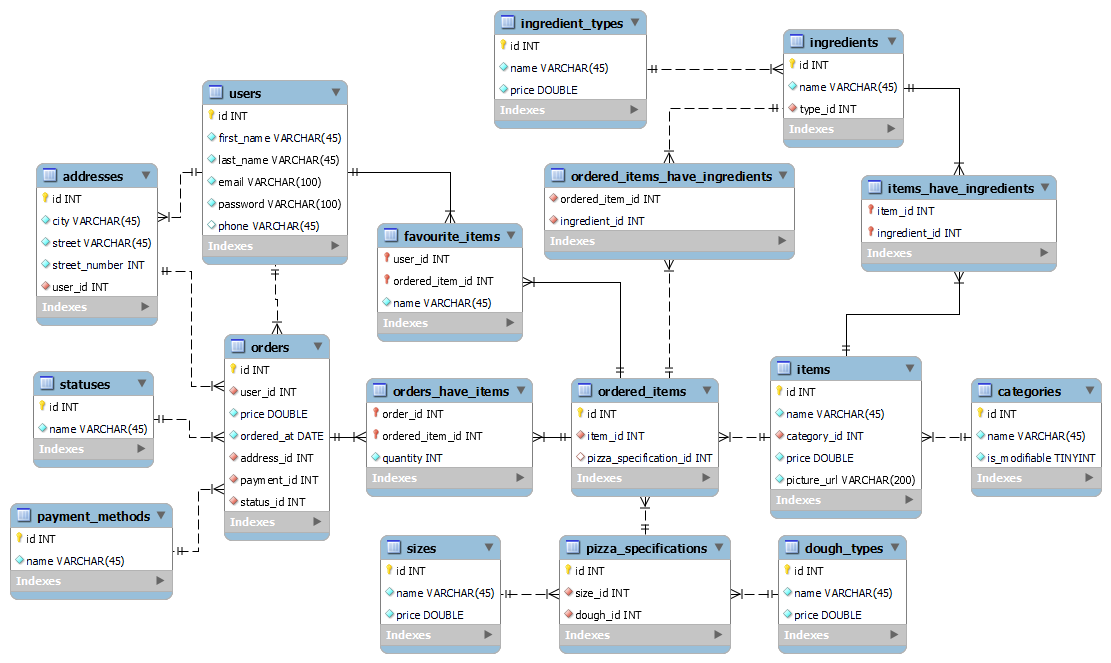
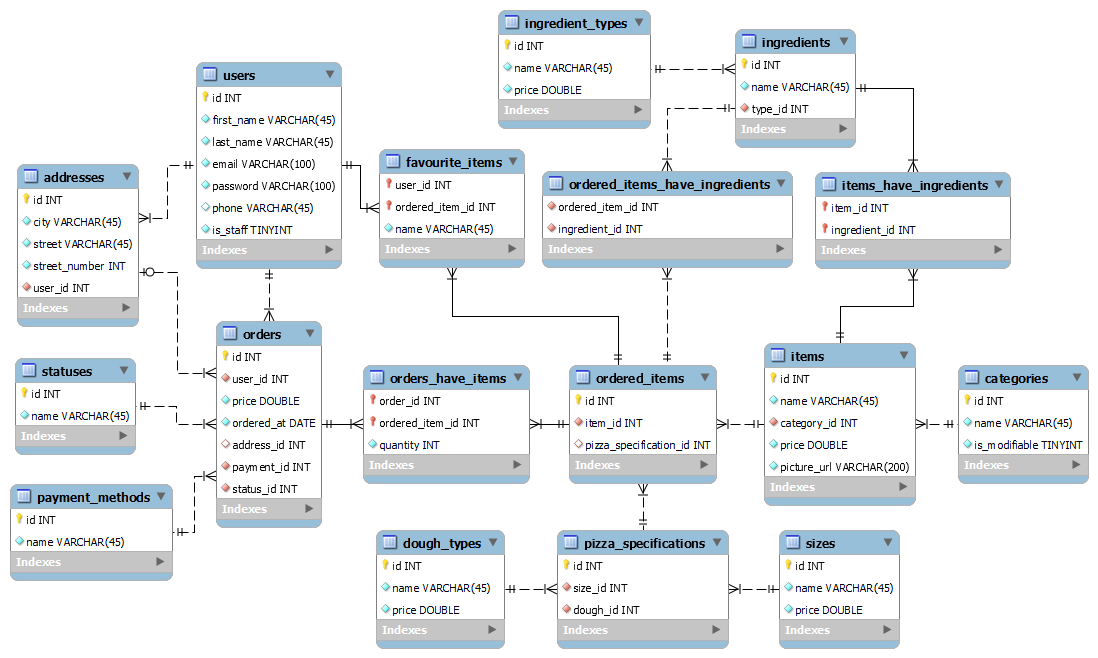
updated er diagram, added is_staff field, updated delete address

diff --git a/src/main/java/com/example/dominos/controller/CartController.java b/src/main/java/com/example/dominos/controller/CartController.java
@@ -37,7 +37,7 @@ public class CartController extends AbstractController{
         return cartService.viewCart(cart);
     }
 
-    @GetMapping("/cart/show")
+    @GetMapping("/cart")
     public CartResponseDTO viewCart(HttpServletRequest request){
         getLoggedUserId(request);
         return cartService.viewCart((Set<CartItemWithQuantityDTO>) request.getSession().getAttribute(CART));
@@ -54,7 +54,7 @@ public class CartController extends AbstractController{
         return cartService.removeItemFromCart(cart, dto);
     }
 
-    @PutMapping("/cart/empty")
+    @DeleteMapping("/cart")
     public void emptyCart(HttpServletRequest request){
         getLoggedUserId(request);
         HttpSession session = request.getSession();

diff --git a/src/main/java/com/example/dominos/service/AddressService.java b/src/main/java/com/example/dominos/service/AddressService.java
@@ -62,11 +62,8 @@ public class AddressService extends AbstractService{
         if (user.getAddresses().stream().noneMatch(a -> a.getId() == aid)){
             throw new UnauthorizedException("User does not own address!");
         }
-        //edit address
-        address.setCity("deleted at " + LocalDateTime.now());
-        address.setStreet("deleted at " + LocalDateTime.now());
-        //change owner to some dummy because user_id is nonnull field and address_id in orders?
-        addressRepository.save(address);
+        //delete address
+        addressRepository.delete(address);
         return true;
     }
 }

diff --git a/src/main/java/com/example/dominos/service/UserService.java b/src/main/java/com/example/dominos/service/UserService.java
@@ -83,7 +83,8 @@ public class UserService extends AbstractService{
             throw new BadRequestException("Email not valid!");
         }
         if (!passwordIsValid(password)){
-            throw new BadRequestException("Password not valid!");
+            throw new BadRequestException("Password not valid! Password must contain one lowercase letter, " +
+                    "one uppercase letter, one digit and one special character.");
         }
         if (!password.equals(confirmPassword)){
             throw new BadRequestException("Passwords do not match!");

diff --git a/src/main/java/com/example/dominos/controller/AddressController.java b/src/main/java/com/example/dominos/controller/AddressController.java
@@ -19,7 +19,8 @@ public class AddressController extends AbstractController{
     private AddressService addressService;
 
     @GetMapping("/addresses/{aid}")
-    public AddressResponseDTO getById(@PathVariable long aid){
+    public AddressResponseDTO getById(@PathVariable long aid, HttpServletRequest request){
+        getLoggedUserId(request);
         return addressService.getById(aid);
     }
 

diff --git a/src/main/java/com/example/dominos/model/entities/User.java b/src/main/java/com/example/dominos/model/entities/User.java
@@ -28,6 +28,8 @@ public class User {
     private String password;
     @Column
     private String phone;
+    @Column
+    private boolean isStaff;
 
     //todo make this sets?
     @OneToMany(mappedBy = "user")
